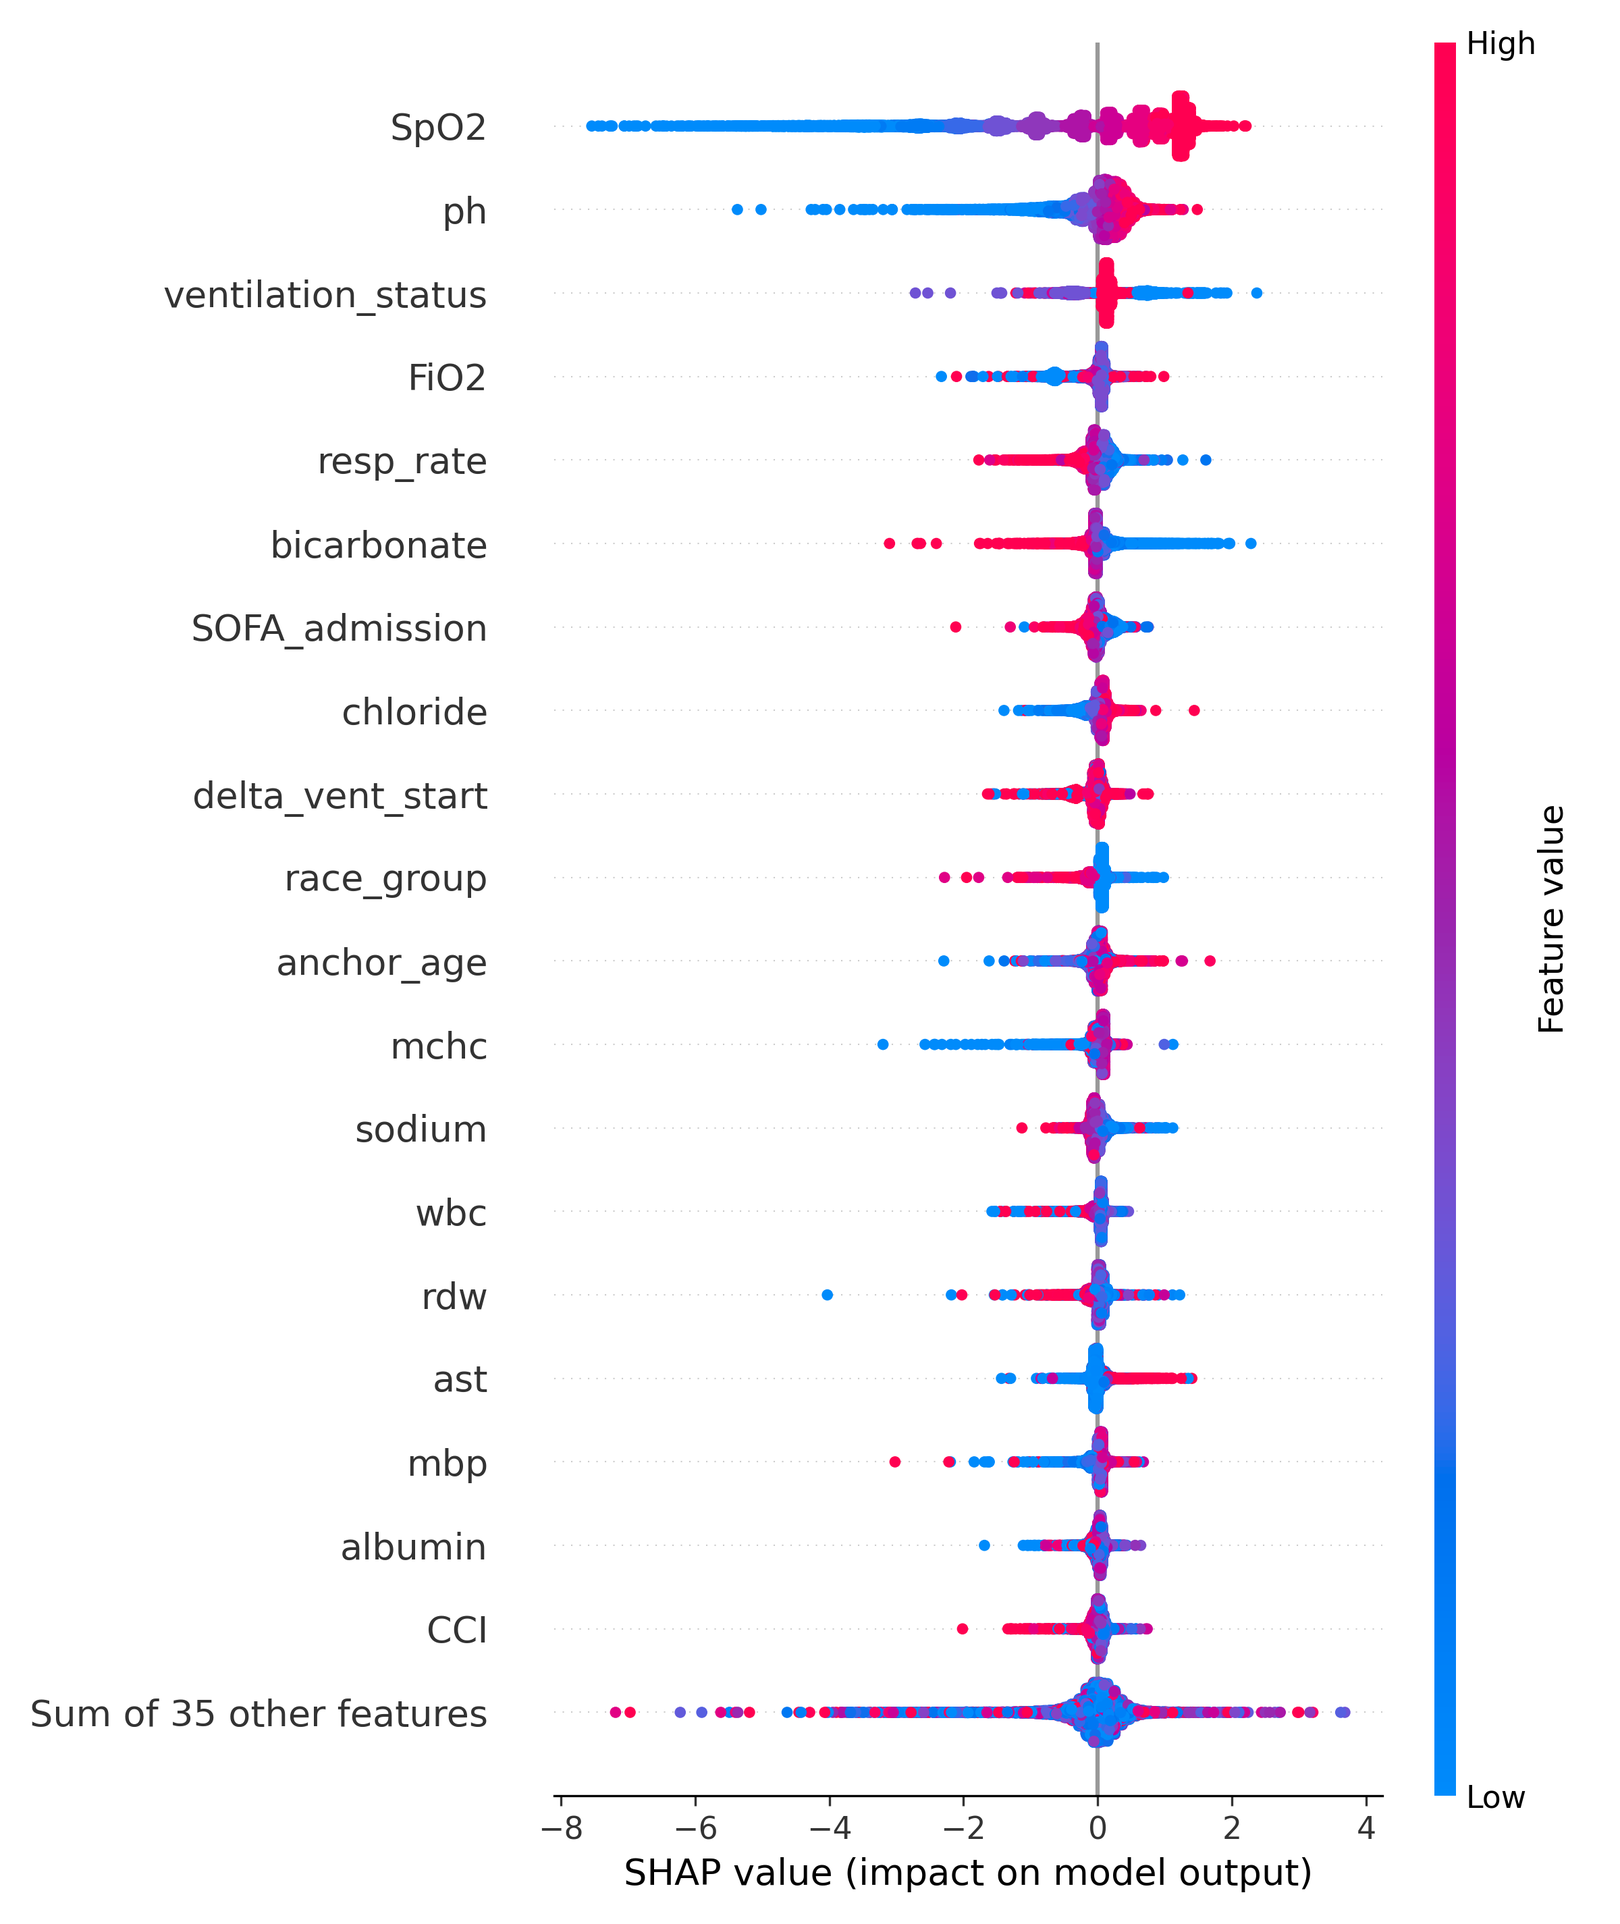
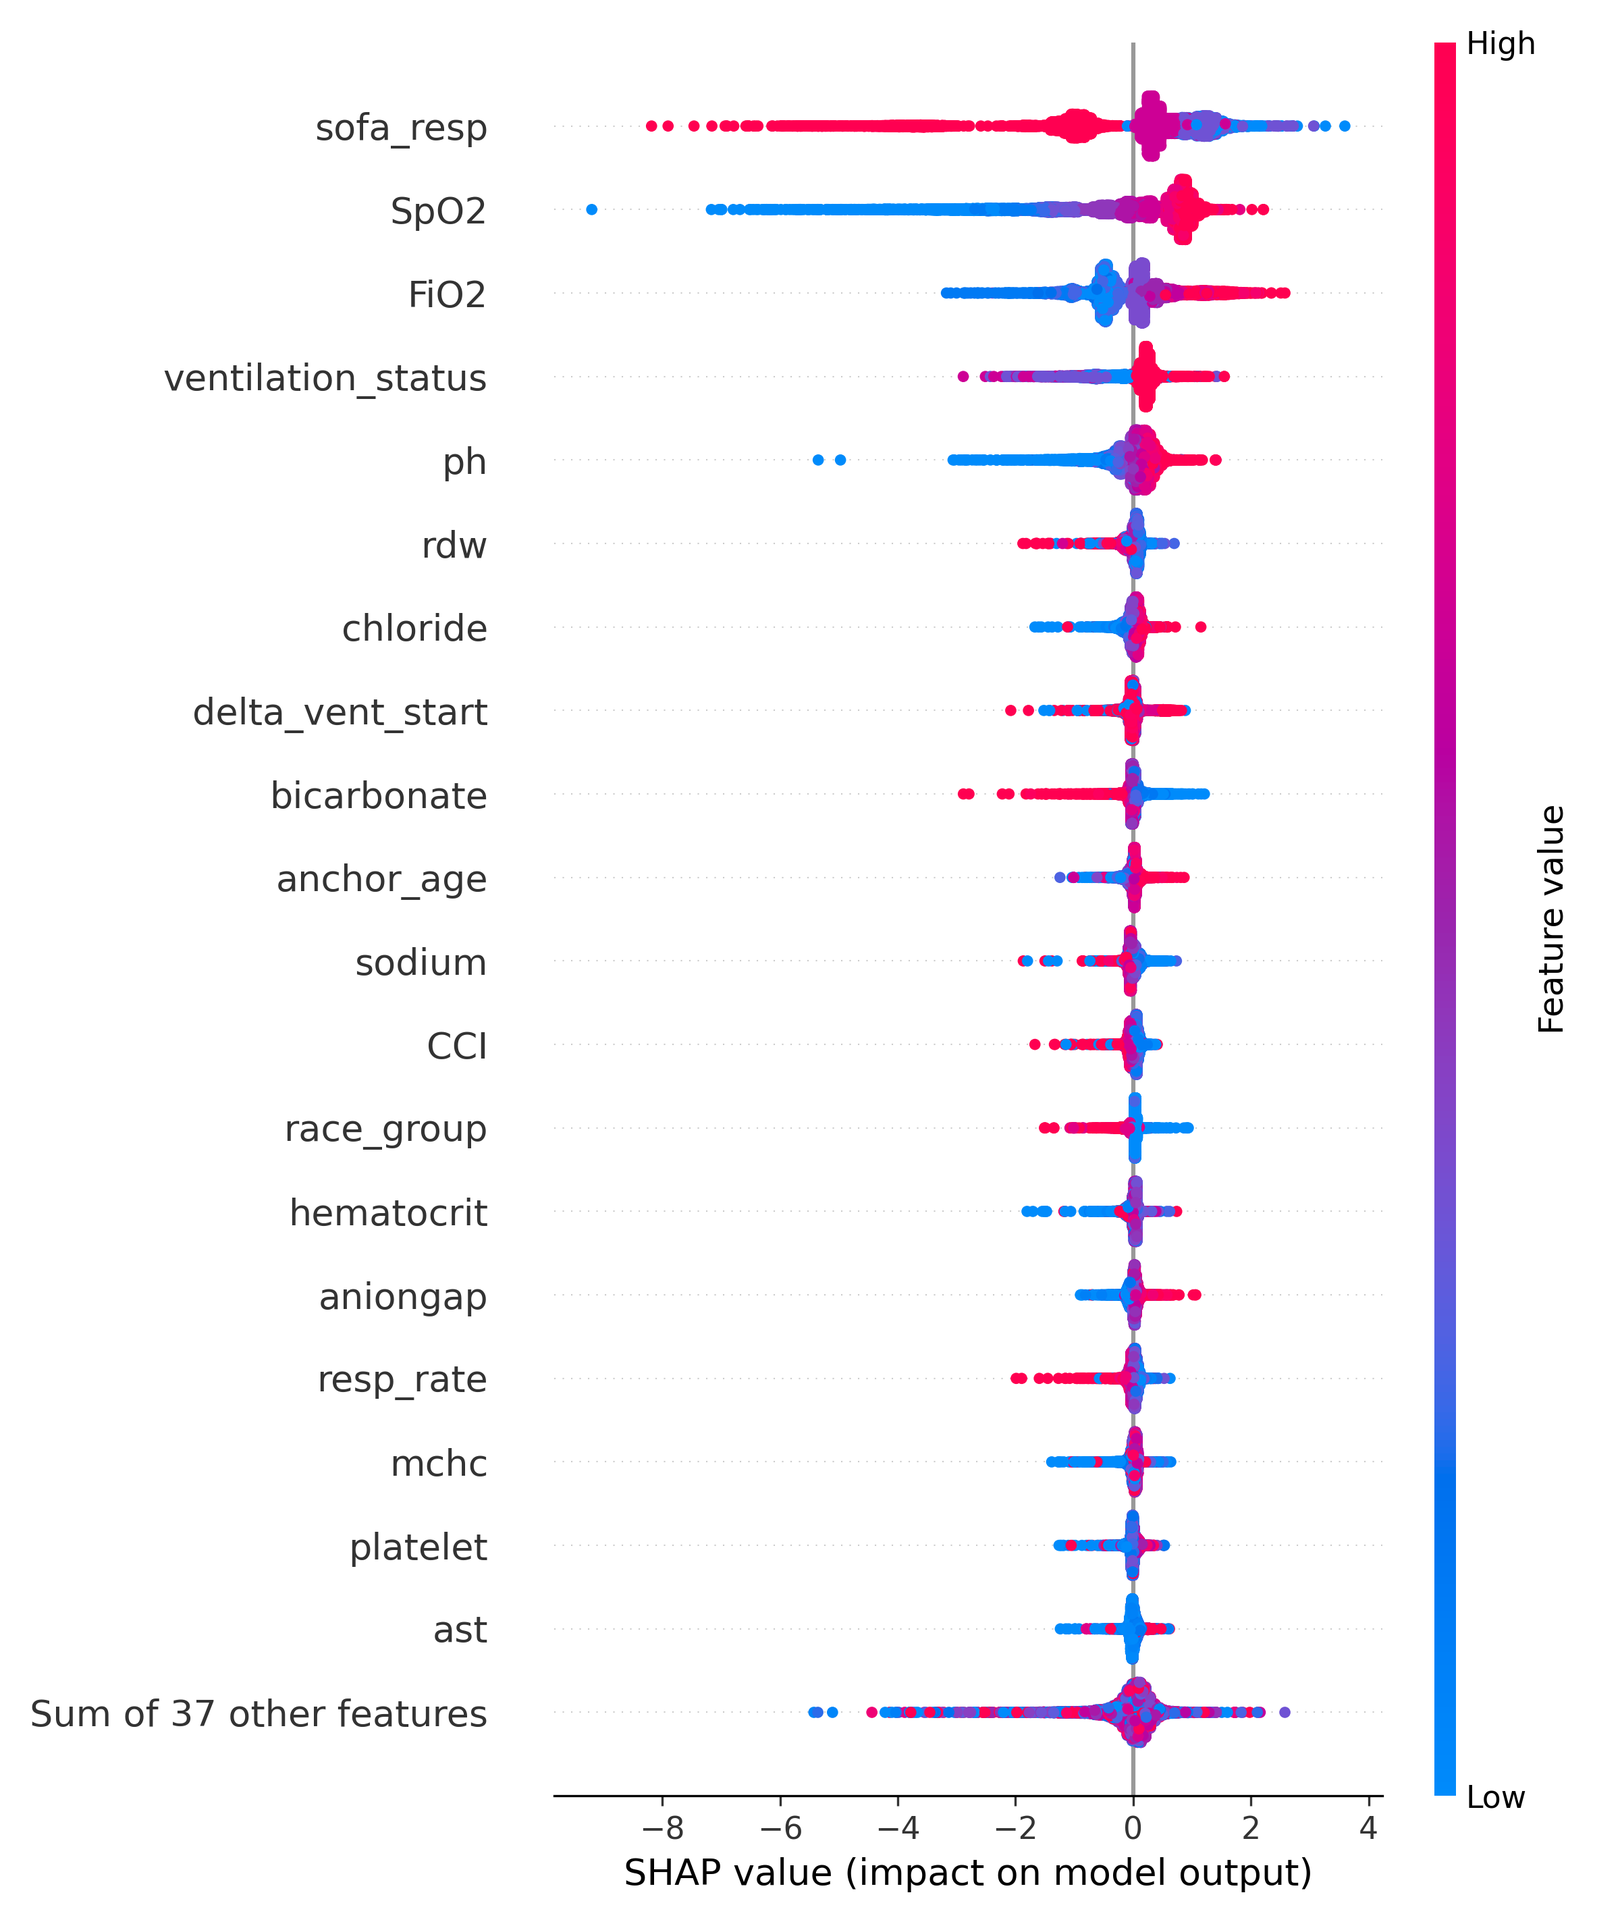
Add multi-task regression (doesn't work)

diff --git a/src/4_table1.py b/src/4_table1.py
@@ -16,10 +16,12 @@ data['los_icu_surv'] = data[data.mortality_in == 0].los_icu
 
 data['sao2-spo2'] = data['SaO2'] - data['SpO2']
 
-nonnormal = ['SaO2', 'SpO2', 'delta_SpO2', 'sao2-spo2', 'anchor_age',
+nonnorm_p = ['anchor_age',
              'los_hosp_dead', 'los_hosp_surv',
              'los_icu_dead', 'los_icu_surv',
-             'CCI', 'SOFA_admission',
+             'CCI', 'SOFA_admission']
+
+nonnorm_s = ['SaO2', 'SpO2', 'delta_SpO2', 'sao2-spo2', 
              'sofa_coag', 'sofa_liver', 'sofa_cv',
              'sofa_cns', 'sofa_renal', 'sofa_resp','FiO2',
              'delta_vent_start', 'delta_rrt', 'delta_vp_start',
@@ -54,7 +56,11 @@ data['invasive_vent'] = data['invasive_vent'].map({1: 'Received', 0: 'No'})
 data['hidden_hypoxemia'] = data['hidden_hypoxemia'].map({1: 'Present', 0: 'No'})
 data['mortality_in'] = data['mortality_in'].map({1: 'Died', 0: 'Survived'})
 data['language'] = data['language'].map({1: 'Proficient', 0: 'Limited Proficiency'})
-
+data['heart_rhythm'] = data['heart_rhythm'].map({0: 'Normal (or near normal) Rhythm',
+                                                 1: 'Bradycardia with Pacer',
+                                                 2: 'Atrial Dysrhythmias',
+                                                 3: 'Bundle Branch Blocks',
+                                                 4: 'Ventricular Dysrhythmias (severe)'})
 order = {"gender": ["Female", "Male"],
          "vasopressors": ["Received", "No"],
          "rrt": ["Received", "No"],
@@ -65,26 +71,34 @@ order = {"gender": ["Female", "Male"],
          "ventilation_status": ["None", "Supplemental Oxygen",
                                 "Non-Invasive Vent. / HFNC", "Invasive Vent.", "Tracheostomy"]}
 
-limit = {"gender": 1,
-         "vasopressors": 1,
-         "rrt": 1,
-         "invasive_vent": 1,
-         "hidden_hypoxemia": 1,
-         "mortality_in": 1,
-         "language": 1}
+limit_p = {"gender": 1,
+           "mortality_in": 1,
+           "language": 1
+           }
 
-labels = {'gender': 'Sex',
-          'vasopressors': 'Vasopressor(s)',
-          'rrt': "RRT",
-          'invasive_vent': "Invasive Ventilation",
-          'hidden_hypoxemia': "Hidden Hypoxemia",
-          'mortality_in': "In-Hospital Mortality",
-          'language': "English Proficiency",
-          'ventilation_status': "Type of Ventilation",
-          'race_group': "Race"}
+limit_s = {"vasopressors": 1,
+           "rrt": 1,
+           "invasive_vent": 1,
+           "hidden_hypoxemia": 1
+           }
 
-categorical = ['mortality_in','hidden_hypoxemia', 'gender', 'race_group', 'language',
-               'ventilation_status', 'invasive_vent', 'rrt', 'vasopressors']
+labls_p = {'anchor_age': 'Age',
+           'gender': 'Sex',
+           'mortality_in': "In-Hospital Mortality",
+           'language': "English Proficiency",
+           'race_group': "Race"
+           }
+
+labls_s = {'vasopressors': 'Vasopressor(s)',
+           'rrt': "RRT",
+           'invasive_vent': "Invasive Ventilation",
+           'hidden_hypoxemia': "Hidden Hypoxemia",
+           'ventilation_status': "Type of Ventilation",
+          }
+
+categ_p = ['hidden_hypoxemia', 'ventilation_status', 'invasive_vent', 'rrt', 'vasopressors']
+
+categ_s = ['mortality_in','gender', 'race_group', 'language',]
 
 # Create a TableOne 
 table1_raw = TableOne(data, columns=categorical+nonnormal,

diff --git a/results/xgb_results.tex b/results/xgb_results.tex
@@ -4,16 +4,16 @@ Race &       Overall &         White &    Hispanic &       Asian &        Other 
 \midrule
 N               &  16124.000000 &  10961.000000 &  451.000000 &  189.000000 &  3512.000000 &  1011.000000 \\
 Baseline R²     &     -0.144730 &     -0.149222 &   -0.075368 &    0.218582 &    -0.245643 &     0.060284 \\
-Baseline Adj R² &     -0.148577 &     -0.154913 &   -0.222009 &   -0.096318 &    -0.265101 &     0.007204 \\
+Baseline Adj R² &     -0.148720 &     -0.155124 &   -0.228212 &   -0.112929 &    -0.265833 &     0.005123 \\
 Baseline RMSE   &      3.369940 &      3.386814 &    2.763397 &    2.701166 &     3.388435 &     3.479193 \\
 Baseline HH     &    240.000000 &    165.000000 &    4.000000 &    5.000000 &    45.000000 &    21.000000 \\
-Model R²        &      0.296845 &      0.285060 &    0.384757 &    0.435241 &     0.284547 &     0.375427 \\
-Model Adj R²    &      0.294482 &      0.281520 &    0.300860 &    0.207652 &     0.273371 &     0.340148 \\
-Model RMSE      &      2.641170 &      2.671308 &    2.090202 &    2.296366 &     2.567987 &     2.836429 \\
-Model HH        &    339.000000 &    228.000000 &    7.000000 &    5.000000 &    65.000000 &    34.000000 \\
-Lift R²         &      0.441575 &      0.434283 &    0.460124 &    0.216659 &     0.530190 &     0.315143 \\
-Lift Adj R²     &      0.443059 &      0.436433 &    0.522869 &    0.303969 &     0.538472 &     0.332944 \\
-Drop RMSE       &      0.728771 &      0.715505 &    0.673195 &    0.404800 &     0.820448 &     0.642765 \\
-Drop HH         &    -99.000000 &    -63.000000 &   -3.000000 &    0.000000 &   -20.000000 &   -13.000000 \\
+Model R²        &      0.447875 &      0.434644 &    0.564168 &    0.633095 &     0.447682 &     0.497483 \\
+Model Adj R²    &      0.445951 &      0.431740 &    0.502223 &    0.477439 &     0.438729 &     0.467985 \\
+Model RMSE      &      2.340396 &      2.375475 &    1.759236 &    1.850914 &     2.256301 &     2.544226 \\
+Model HH        &    275.000000 &    190.000000 &    6.000000 &    5.000000 &    48.000000 &    26.000000 \\
+Delta R²        &      0.592605 &      0.583866 &    0.639536 &    0.414513 &     0.693325 &     0.437199 \\
+Delta Adj R²    &      0.594671 &      0.586864 &    0.730435 &    0.590367 &     0.704563 &     0.462862 \\
+Delta RMSE      &     -1.029545 &     -1.011339 &   -1.004161 &   -0.850252 &    -1.132134 &    -0.934967 \\
+Delta HH        &     35.000000 &     25.000000 &    2.000000 &    0.000000 &     3.000000 &     5.000000 \\
 \bottomrule
 \end{tabular}

diff --git a/src/3_data_clean.py b/src/3_data_clean.py
@@ -27,6 +27,42 @@ df['race_group'] = df['race_group'].map({'White': 1,
                                          'Other': 4,
                                          'Black': 5})
 
+# mapping of categories
+# normal (or near normal) rhythm: 0
+# bradycardia with pacer: 1
+# atrial dysrthymias: 2
+# bundle branch blocks: 3
+# ventricular dysrhythmias = very bad: 4
+
+category_map = {'1st AV (First degree AV Block)': 0,
+                '2nd AV M2 (Second degree AV Block - Mobitz 2)': 1,
+                '2nd AV W-M1 (Second degree AV Block Wenckebach - Mobitz1)': 1,
+                '3rd AV (Complete Heart Block)': 1,
+                'A Flut (Atrial Flutter)': 2,
+                'A Paced': 1,
+                'AF (Atrial Fibrillation)': 2,
+                'AV Paced': 1,
+                'Asystole': 4,
+                'Idioventricular': 3,
+                'JR (Junctional Rhythm)': 3,
+                'JT (Junctional Tachycardia)': 3,
+                'LBBB (Left Bundle Branch Block)': 3,
+                'MAT (Multifocal atrial tachycardia)': 2,
+                'PAT (Paroxysmal Atrial Tachycardia)': 2,
+                'RBBB (Right Bundle Branch Block)': 3,
+                'SA (Sinus Arrhythmia)': 2,
+                'SB (Sinus Bradycardia)': 0,
+                'SR (Sinus Rhythm)': 0,
+                'ST (Sinus Tachycardia)': 0,
+                'SVT (Supra Ventricular Tachycardia)': 2,
+                'V Paced': 3,
+                'VF (Ventricular Fibrillation)': 4,
+                'VT (Ventricular Tachycardia)': 4,
+                'WAP (Wandering atrial pacemaker)': 1}
+
+category_column = df['heart_rhythm']
+df['heart_rhythm'] = category_column.map(category_map)
+
 df['vasopressors'] = df.norepinephrine_equivalent_dose.apply(lambda x: 1 if x > 0 else 0)
 
 # Replace nan with 0 in SOFA -> Assuming best case scenario
@@ -42,9 +78,10 @@ df['norepinephrine_equivalent_dose'] = df['norepinephrine_equivalent_dose'].fill
 # No ventilation
 df['ventilation_status'] = df['ventilation_status'].fillna(0)
 
-#df['delta_vent_start'] = df['delta_vent_start'].fillna(0)
-#df['delta_rrt'] = df['delta_rrt'].fillna(0)
-#df['delta_vp_start'] = df['delta_vp_start'].fillna(0)
+# impute missing data before split -> need to find a better way!
+df['delta_vent_start'] = df['delta_vent_start'].fillna(0)
+df['delta_rrt'] = df['delta_rrt'].fillna(0)
+df['delta_vp_start'] = df['delta_vp_start'].fillna(0)
 
 df['FiO2'] = df['FiO2'].fillna(21) # Room Air O2 %
 

diff --git a/src/utils.py b/src/utils.py
@@ -1,8 +1,8 @@
 import pickle 
 import pandas as pd
 import numpy as np
+from tqdm import tqdm
 from sklearn.metrics import r2_score, mean_squared_error
-from tabulate import tabulate
 
 
 def save_model(model, filename):
@@ -25,7 +25,7 @@ def adj_r2(r2, y_test, X_test):
 def rmse(y_test, y_pred):
     return np.sqrt(mean_squared_error(y_test, y_pred))
 
-def evaluate_model(model, X_test, y_test):
+def evaluate_model(model, X_test, y_test, name):
     """Evaluate a model on a test set"""
     # Make predictions on the validation set
     y_pred = model.predict(X_test)
@@ -65,10 +65,10 @@ def evaluate_model(model, X_test, y_test):
                                 'Model Adj R\u00B2': [model_adj_r2],
                                 'Model RMSE': [model_rmse],
                                 'Model HH': [model_hh],
-                                'Lift R\u00B2': [model_r2 - bas_r2],
-                                'Lift Adj R\u00B2': [model_adj_r2 - bas_adj_r2],
-                                'Drop RMSE': [bas_rmse - model_rmse],
-                                'Drop HH': [bas_hh - model_hh]
+                                'Delta R\u00B2': [model_r2 - bas_r2],
+                                'Delta Adj R\u00B2': [model_adj_r2 - bas_adj_r2],
+                                'Delta RMSE': [model_rmse - bas_rmse],
+                                'Delta HH': [model_hh - bas_hh]
                                 })
         
         return results
@@ -92,5 +92,5 @@ def evaluate_model(model, X_test, y_test):
     pivoted_df = melted_df.pivot(index=['Metric'], columns='Race', values='value')
     pivoted_df = pivoted_df[race_order].reindex(metric_order)
 
-    pivoted_df.to_excel('results/xgb_results.xlsx')
-    pivoted_df.to_latex('results/xgb_results.tex')
+    pivoted_df.to_excel(f'results/{name}.xlsx')
+    pivoted_df.to_latex(f'results/{name}.tex')

diff --git a/results/multi.tex b/results/multi.tex
@@ -1,0 +1,19 @@
+\begin{tabular}{lrrrrrr}
+\toprule
+Race &       Overall &         White &    Hispanic &       Asian &        Other &        Black \\
+\midrule
+N               &  16124.000000 &  10961.000000 &  451.000000 &  189.000000 &  3512.000000 &  1011.000000 \\
+Baseline R²     &     -0.144730 &     -0.149222 &   -0.075368 &    0.218582 &    -0.245643 &     0.060284 \\
+Baseline Adj R² &     -0.148720 &     -0.155124 &   -0.228212 &   -0.112929 &    -0.265833 &     0.005123 \\
+Baseline RMSE   &      3.369940 &      3.386814 &    2.763397 &    2.701166 &     3.388435 &     3.479193 \\
+Baseline HH     &    240.000000 &    165.000000 &    4.000000 &    5.000000 &    45.000000 &    21.000000 \\
+Model R²        &     -0.007375 &     -0.010621 &   -0.019757 &   -0.020774 &    -0.003356 &    -0.000438 \\
+Model Adj R²    &     -0.010886 &     -0.015811 &   -0.164697 &   -0.453830 &    -0.019619 &    -0.059164 \\
+Model RMSE      &      3.161304 &      3.176021 &    2.690997 &    3.087269 &     3.041094 &     3.589843 \\
+Model HH        &    377.000000 &    249.000000 &    8.000000 &    6.000000 &    76.000000 &    38.000000 \\
+Delta R²        &      0.137355 &      0.138602 &    0.055611 &   -0.239357 &     0.242287 &    -0.060723 \\
+Delta Adj R²    &      0.137834 &      0.139313 &    0.063515 &   -0.340902 &     0.246214 &    -0.064287 \\
+Delta RMSE      &     -0.208636 &     -0.210793 &   -0.072400 &    0.386103 &    -0.347341 &     0.110650 \\
+Delta HH        &    137.000000 &     84.000000 &    4.000000 &    1.000000 &    31.000000 &    17.000000 \\
+\bottomrule
+\end{tabular}

diff --git a/src/5_data_split.py b/src/5_data_split.py
@@ -4,16 +4,11 @@ from sklearn.model_selection import GroupShuffleSplit
 # load data
 data = pd.read_csv('data/MIMIC_IV_clean.csv')
 
-# impute missing data before split -> need to find a better way!
-data.delta_vent_start = data.delta_vent_start.fillna(0)
-data.delta_rrt = data.delta_rrt.fillna(0)
-data.delta_vp_start = data.delta_vp_start.fillna(0)
-
 fts = ['SpO2', 
        'anchor_age','sex_female', 'race_group', 'language',
        'CCI', 'SOFA_admission',
        'sofa_coag', 'sofa_liver', 'sofa_cv',
-       'sofa_cns', 'sofa_renal', 'FiO2',
+       'sofa_cns', 'sofa_renal', 'sofa_resp','FiO2',
        'ventilation_status', 'invasive_vent', 'rrt', 'vasopressors',
        'delta_vent_start', 'delta_rrt', 'delta_vp_start',
        'norepinephrine_equivalent_dose', 
@@ -22,7 +17,8 @@ fts = ['SpO2',
        'bilirubin_total', 'albumin', 'aniongap',
        'bicarbonate', 'bun', 'calcium', 'chloride', 'creatinine',
        'glucose_lab', 'sodium', 'potassium', 'ph', 'lactate',
-       'heart_rate', 'mbp', 'resp_rate', 'temperature', 'glucose'
+       'heart_rate', 'mbp', 'resp_rate', 'temperature', 'glucose',
+       'heart_rhythm'
       ]
 
 target = ['SaO2'] 

diff --git a/src/6B_train_multi.py b/src/6B_train_multi.py
@@ -1,0 +1,26 @@
+from utils import *
+import tensorflow as tf
+from keras.models import Sequential
+from keras.layers import Dense
+
+X_train = pd.read_csv('data/ML/X_train.csv')
+y_train = pd.read_csv('data/ML/y_train.csv')
+y_train['HH'] = ((y_train.SaO2 < 88) & (X_train.SpO2 >= 88)).astype(int)
+
+# Create Model
+model = Sequential()
+model.add(Dense(128, activation='relu', input_dim=X_train.shape[1]))
+model.add(Dense(64, activation='relu'))
+model.add(Dense(32, activation='relu'))
+model.add(Dense(2))
+
+# Define your loss function
+loss_fn = tf.keras.losses.CategoricalCrossentropy()
+
+model.compile(optimizer='adam', loss=['mse', loss_fn], metrics=['mse', 'accuracy'])
+
+model.fit(X_train, y_train, epochs=100, batch_size=32)
+
+# Save the model to a file
+filename = "models/multi"
+tf.keras.models.save_model(model, filename)

diff --git a/src/7_test.py b/src/7_test.py
@@ -1,17 +1,18 @@
 from utils import *
+import tensorflow as tf
 
 # Load test data
 X_test = pd.read_csv('data/ML/X_test.csv')
 y_test = pd.read_csv('data/ML/y_test.csv')
 
 # Load the model from a file
-filename = "models/xgboost.pkl"
-model = load_model(filename)
+filename = "models/multi"
+model = tf.keras.models.load_model(filename)
 
-y_pred = model.predict(X_test)
+y_pred = model.predict(X_test)[:,0]
 
-print(f"R2: {r2_score(y_test, y_pred)}")
+print(f"R\u00B2 = {r2_score(y_test, y_pred):2f}")
 
 # Make predictions on the validation set
-#evaluate_model(model, X_test, y_test)
+evaluate_model(model, X_test, y_test, "multi")
 

diff --git a/src/6A_train_xgbr.py b/src/6A_train_xgbr.py
@@ -1,7 +1,6 @@
 from utils import *
-
 from sklearn.model_selection import GridSearchCV
-import xgboost as xgb
+from xgboost import XGBRegressor
 
 # Load data, already split 80-20
 X_train = pd.read_csv('data/ML/X_train.csv')
@@ -9,16 +8,14 @@ y_train = pd.read_csv('data/ML/y_train.csv')
 
 # model
 # Create an XGBoost regressor
-model = xgb.XGBRegressor()
-
+model = XGBRegressor()
 model.fit(X_train, y_train)
 
 # Save the model to a file
 filename = "models/xgboost.pkl"
 save_model(model, filename)
 
-# Evaluate Model
-evaluate_model(model, X_train, y_train)
 
+#
 
 
